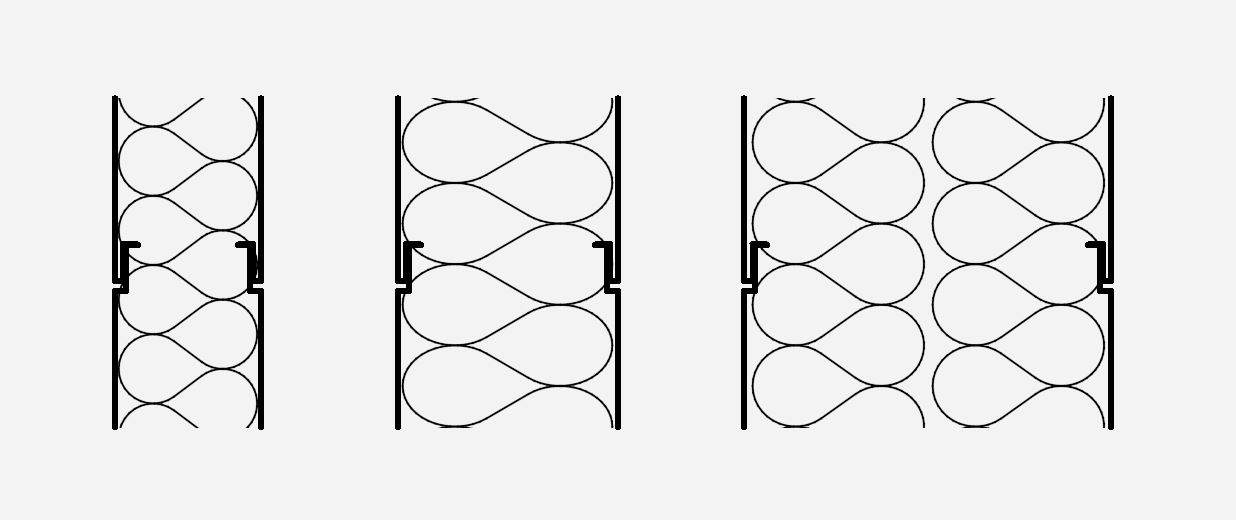
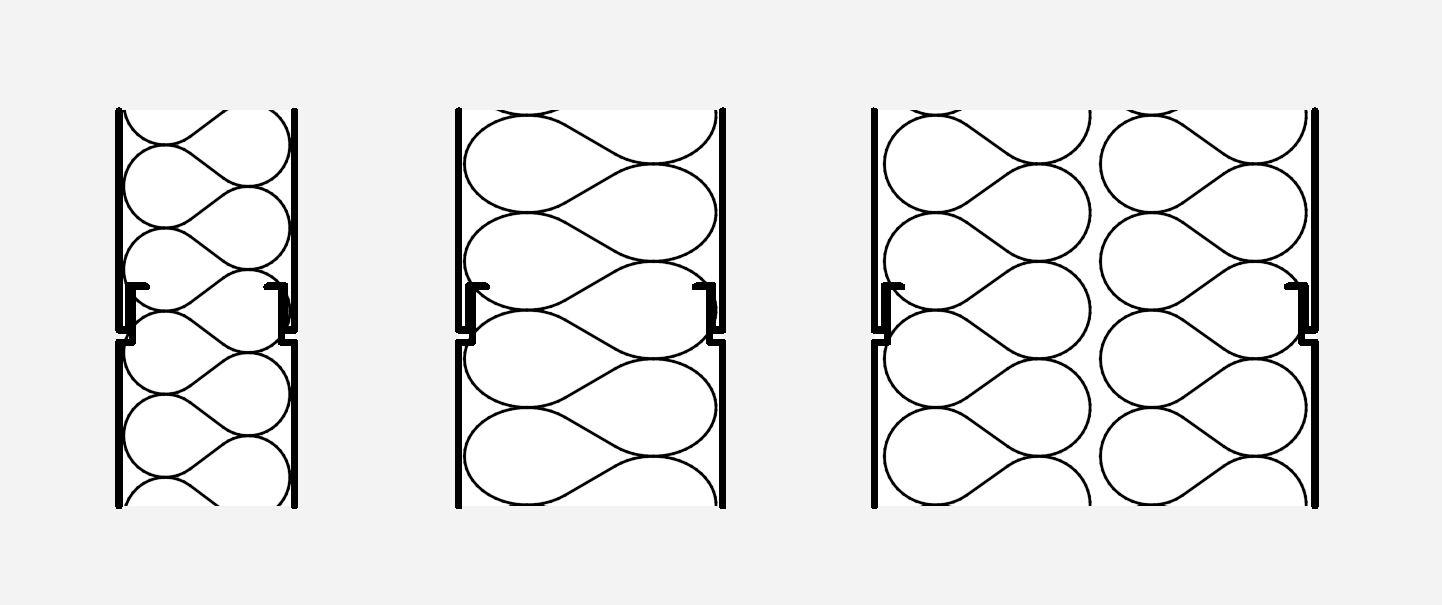
Publish bilingual SandwichCreator presentation website

Changed region(s): [[0.5841, 0.1846, 0.9223, 0.8308], [0.3074, 0.1846, 0.5227, 0.8615], [0.0615, 0.1846, 0.2152, 0.8308]]

diff --git a/docs/index.html b/docs/index.html
@@ -137,7 +137,7 @@
       <div class="section-heading"><h2>Раскладка сэндвич-панелей в 3D за пару кликов</h2></div>
       <div class="feature-grid">
         <article class="feature"><div class="feature-art feature-image" aria-hidden="true"><img src="assets/sc_07.jpg" width="1005" height="663" alt="" loading="lazy"></div><p>Широко применяемая стандартная ширина<br>1190 и 1000 мм</p></article>
-        <article class="feature"><div class="feature-art feature-image" aria-hidden="true"><img src="assets/sc_06.jpg" width="1236" height="520" alt="" loading="lazy"></div><p>Номенклатура стандартных толщин<br>от 50 до 200 мм</p></article>
+        <article class="feature"><div class="feature-art feature-image" aria-hidden="true"><img src="assets/sc_06.jpg?v=5594e55ec12f" width="1442" height="605" alt="" loading="lazy"></div><p>Номенклатура стандартных толщин<br>от 50 до 200 мм</p></article>
         <article class="feature"><div class="feature-art feature-image" aria-hidden="true"><img src="assets/sc_08.jpg" width="1043" height="656" alt="" loading="lazy"></div><p>Учитываются проёмы.<br>Используются стандартные фасонные элементы</p></article>
       </div>
     </section>

diff --git a/docs/en/index.html b/docs/en/index.html
@@ -137,7 +137,7 @@
       <div class="section-heading"><h2>Lay out sandwich panels in 3D in just a few clicks</h2></div>
       <div class="feature-grid">
         <article class="feature"><div class="feature-art feature-image" aria-hidden="true"><img src="../assets/sc_07.jpg" width="1005" height="663" alt="" loading="lazy"></div><p>Widely used standard widths<br>1190 and 1000 mm</p></article>
-        <article class="feature"><div class="feature-art feature-image" aria-hidden="true"><img src="../assets/sc_06.jpg" width="1236" height="520" alt="" loading="lazy"></div><p>Standard thickness range<br>from 50 to 200 mm</p></article>
+        <article class="feature"><div class="feature-art feature-image" aria-hidden="true"><img src="../assets/sc_06.jpg?v=5594e55ec12f" width="1442" height="605" alt="" loading="lazy"></div><p>Standard thickness range<br>from 50 to 200 mm</p></article>
         <article class="feature"><div class="feature-art feature-image" aria-hidden="true"><img src="../assets/sc_08.jpg" width="1043" height="656" alt="" loading="lazy"></div><p>Openings are accounted for.<br>Standard flashings are used</p></article>
       </div>
     </section>
